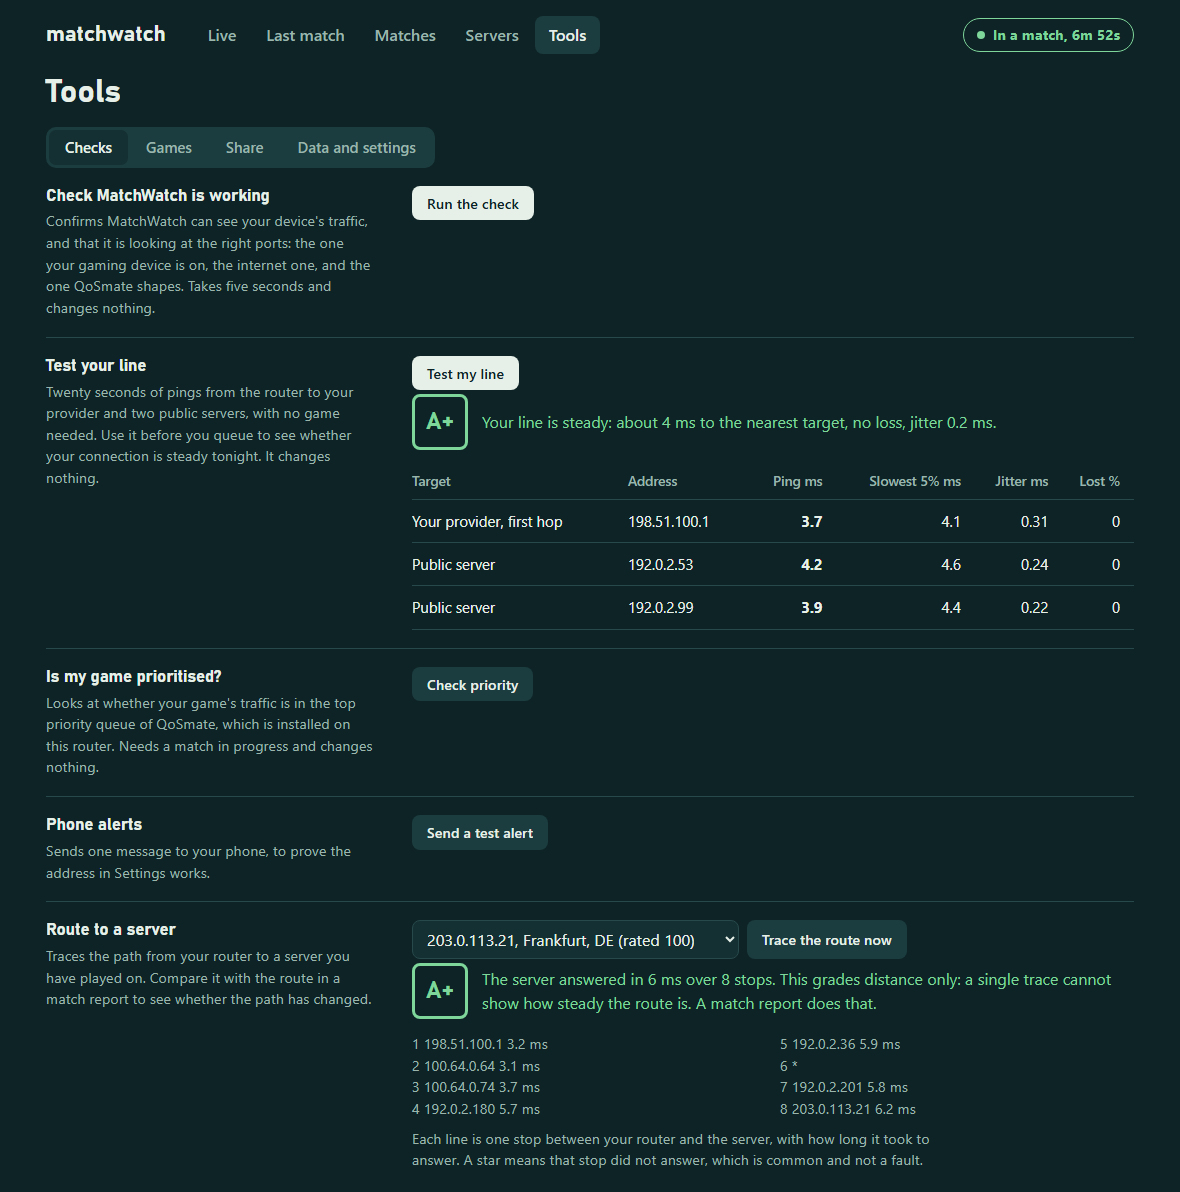
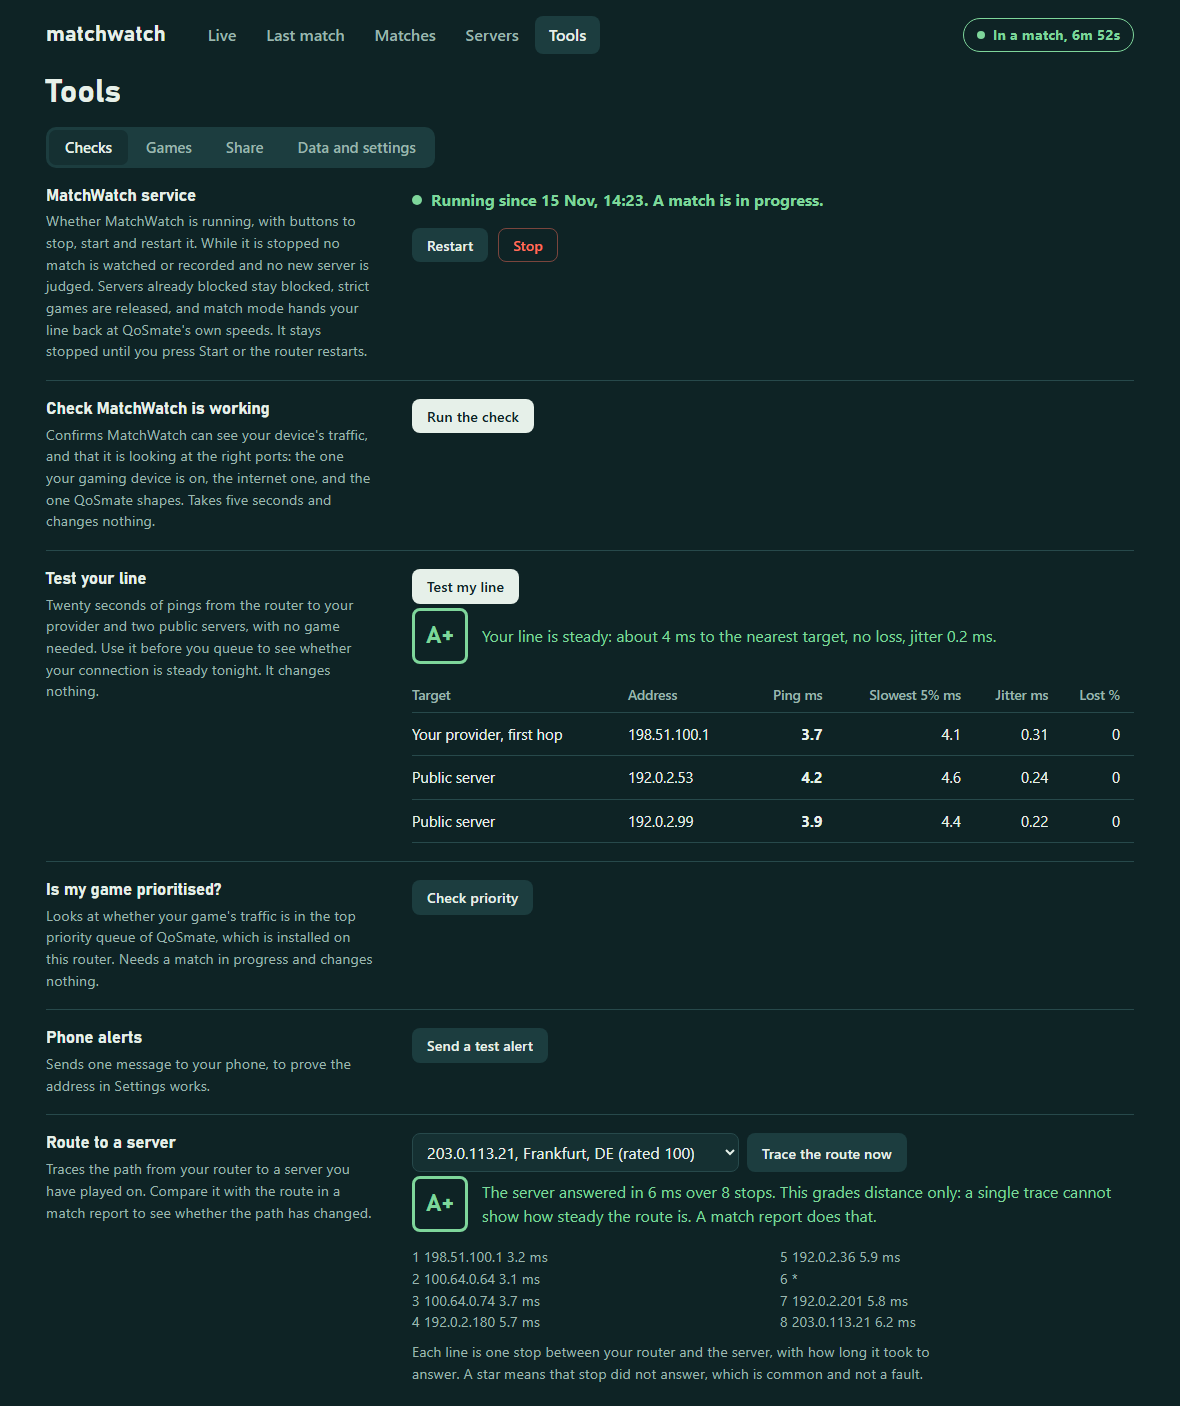
0.36.0: stop, start and restart buttons, with a status that says whether MatchWatch is running
A MatchWatch service row on the Tools page shows whether the service is
running and since when, with Stop, Start and Restart. The service writes
that it is starting or has stopped into the status file the dashboard
already reads every second, so the header and the row change at once.
Stop and restart ask first when a match is in progress. Also from the
command line: matchwatch service [stop|start|restart].

diff --git a/luci-app-matchwatch/htdocs/luci-static/resources/matchwatch/dashboard.js b/luci-app-matchwatch/htdocs/luci-static/resources/matchwatch/dashboard.js
@@ -28,7 +28,7 @@ var page = "", pageArg = "", armed = 0, view = shadow.getElementById("view");
 // another, MatchWatch has been updated under this page: the browser's stored copies of the dashboard
 // files are fetched afresh, which replaces them, and the page reloads itself. Without this an updated
 // router kept showing the old dashboard until the browser happened to let go of it.
-var BUILT = "0.35.2", reloading = false;
+var BUILT = "0.36.0", reloading = false;
 function freshReload() {
 	var urls = {}, go = function () { location.reload(); };
 	try { performance.getEntriesByType("resource").forEach(function (e) { if (/\/matchwatch\/[^?]*\.(js|css)(\?|$)/.test(e.name)) urls[e.name] = 1; }); } catch (e) {}
@@ -1500,6 +1500,7 @@ function pageTools() {
 		view.appendChild(seg);
 	}
 	if (!RO && tab === "checks") {
+		view.appendChild(tool("MatchWatch service", "Whether MatchWatch is running, with buttons to stop, start and restart it. While it is stopped no match is watched or recorded and no new server is judged. Servers already blocked stay blocked, strict games are released, and match mode hands your line back at QoSmate's own speeds. It stays stopped until you press Start or the router restarts.", svcBox()));
 		var docOut = outBox();
 		view.appendChild(tool("Check MatchWatch is working", "Confirms MatchWatch can see your device's traffic, and that it is looking at the right ports: the one your gaming device is on, the internet one, and the one QoSmate shapes. Takes five seconds and changes nothing.",
 			h("div", { cls: "actions" }, act("Run the check", "doctor", null, { solid: true, done: docOut.show })), docOut));
@@ -1684,12 +1685,57 @@ function route(keep) { // keep === true: a redraw with fresh data, so stay where
 	if (page === "live") pageLive(); else if (page === "match") pageMatch(pageArg || "last"); else if (page === "matches") pageMatches(); else if (page === "servers") pageServers(); else pageTools();
 	if (keep !== true) window.scrollTo(0, 0);
 }
+// Is the service running? "stopped" is written by the service as it stops and "starting" as it starts, so
+// neither depends on the clocks; "off" is no sign of life: no file, or one the engine has not touched for 20 s.
+function svcState() {
+	var st = D.st;
+	if (!st) return "off";
+	if (st.stopped) return "stopped";
+	if (st.starting) return "starting";
+	return (!st.ts || Date.now() / 1000 - st.ts > 20) ? "off" : "on";
+}
 function setState() {
-	var e = shadow.getElementById("state"), st = D.st, s = session();
+	var e = shadow.getElementById("state"), st = D.st, s = session(), v = svcState();
 	if (!st) { e.className = ""; e.textContent = "Can't read data from the router"; }
-	else if (!st.ts || Date.now() / 1000 - st.ts > 20) { e.className = ""; e.textContent = "The matchwatch service is not running"; }
+	else if (v === "stopped") { e.className = ""; e.textContent = "MatchWatch is stopped"; }
+	else if (v === "starting") { e.className = ""; e.textContent = "MatchWatch is starting"; }
+	else if (v === "off") { e.className = ""; e.textContent = "MatchWatch is not running"; }
 	else if (s) { e.className = "on"; e.textContent = "In a match, " + mins(s.age); }
 	else { e.className = ""; e.textContent = "Waiting for a match"; }
+	svcPaint();
+}
+// The service row on the Tools page. The Tools page is not redrawn by fresh data, so this draws itself
+// from the status file, which is read every second, and only when what it would show has changed.
+var SVC = { box: null, key: "", wait: "", until: 0, was: 0 };
+function svcBox() { SVC.box = h("div", { cls: "svcbox" }); SVC.key = ""; svcPaint(); return SVC.box; }
+function svcPaint() {
+	var box = SVC.box;
+	if (!box || !box.isConnected && SVC.key) return;
+	var v = svcState(), st = D.st || {}, m = v === "on" && !!session();
+	if (SVC.wait) {
+		var over = SVC.wait === "Stopping" ? v !== "on" && v !== "starting" : v === "on" && (SVC.wait === "Starting" || st.since !== SVC.was);
+		if (over || Date.now() > SVC.until) SVC.wait = "";
+	}
+	var key = [v, m, SVC.wait, st.since || 0, st.stopped || 0].join("|");
+	if (key === SVC.key || box.querySelector("button.arm")) return;
+	SVC.key = key; box.textContent = "";
+	function go(word) { return function (out) { SVC.wait = word; SVC.until = Date.now() + 30000; SVC.was = (D.st || {}).since || 0; toast(out || word + "."); svcPaint(); }; }
+	var cls = "wait", say;
+	if (SVC.wait) say = SVC.wait + "...";
+	else if (v === "on") { cls = "on"; say = "Running" + (st.since ? " since " + when(st.since) : "") + (m ? ". A match is in progress." : ""); }
+	else if (v === "starting") say = "Starting...";
+	else if (v === "stopped") { cls = "off"; say = "Stopped since " + when(st.stopped); }
+	else { cls = "off"; say = "Not running"; }
+	box.appendChild(h("p", { cls: "svc " + cls, role: "status", text: say }));
+	if (SVC.wait || v === "starting") return;
+	var row = h("div", { cls: "actions" });
+	if (v === "on") {
+		row.appendChild(act("Restart", "svcrestart", null, { confirm: m ? "Lose this match's record?" : null, done: go("Restarting") }));
+		row.appendChild(act("Stop", "svcstop", null, { danger: true, confirm: m ? "Lose this match's record?" : "Stop MatchWatch?", done: go("Stopping") }));
+	} else {
+		row.appendChild(act("Start", "svcstart", null, { solid: true, done: go("Starting") }));
+	}
+	box.appendChild(row);
 }
 function tick() { get("status.json", function (st) { D.st = st; setState(); updateLive(); }); get("lobby.json", function (l) { D.lobby = l; }); }
 // half-typed text in a box would be wiped by a redraw

diff --git a/luci-app-matchwatch/htdocs/luci-static/resources/matchwatch/dashboard.css b/luci-app-matchwatch/htdocs/luci-static/resources/matchwatch/dashboard.css
@@ -70,6 +70,12 @@ td .stayform { max-width: 420px; }
 .pingform label { display: flex; flex-direction: column; gap: 4px; font-size: 0.85rem; color: var(--muted); flex: 0 1 130px; }
 .pingform label input { min-width: 0; width: 100%; flex: none; }
 .pingsay { min-height: 1.4em; margin-top: 10px; }
+/* the service row: a light and a word, so the state is not carried by colour alone */
+.svc { display: flex; align-items: center; gap: 9px; margin: 2px 0 12px; font-weight: 700; }
+.svc::before { content: ""; flex: none; width: 10px; height: 10px; border-radius: 50%; background: var(--muted); }
+.svc.on { color: var(--ok); } .svc.on::before { background: var(--ok); }
+.svc.off { color: var(--bad); } .svc.off::before { background: var(--bad); }
+.svc.wait { color: var(--muted); } .svc.wait::before { background: var(--mid); }
 /* the ping range: two sliders laid over one line. Only their handles take the pointer; the line, the lit part and the datacentre marks are drawn underneath, inset by half a handle so a mark sits where the handle's centre would. */
 .pingtrack { position: relative; height: 36px; max-width: 640px; margin: 4px 0 0; }
 .pingtrack .rail, .pingtrack .marks { position: absolute; left: 10px; right: 10px; }

diff --git a/test/mockshots.py b/test/mockshots.py
@@ -100,7 +100,7 @@ def build(site):
     blocks = [{"ip": DCS["mad"][5][0].rsplit(".", 1)[0] + ".0/24", "days": None, "reason": "stay"}, {"ip": "203.0.113.77", "days": 12, "reason": "manual"}]
     for s in servers: s["blocked"] = s["ip"] == "203.0.113.77"; s["in"] = s["cc"] in ("DE", "SE"); s["lat"], s["lon"] = {"DE": (50.11, 8.68), "SE": (59.33, 18.07), "ES": (40.42, -3.70)}[s["cc"]]
     out = {"history": hist, "servers": servers, "datacentres": dlist, "regions": rj, "blocklist": blocks,
-           "info": {"version": "0.35.2", "ping": [5, 45], "device": "192.168.1.50", "stay": "Germany + Sweden", "autoblock": False, "notify": True, "pc_score": True, "geo": True, "block_days": 14, "stays": ["Near Frankfurt 450 km", "Sweden"], "web": False, "qosmate": True, "away": 412, "allowed": ["192.0.2.150"], "lan_if": "br-lan", "wan_if": "pppoe-wan", "qos_if": "eth1", "port_warn": "", "pool": [{"n": 1, "name": "Near Frankfurt 450 km", "lat": 50.11, "lon": 8.68, "km": 450, "cc": ""}, {"n": 2, "name": "Sweden", "lat": None, "lon": None, "km": 0, "cc": "SE"}]}}
+           "info": {"version": "0.36.0", "ping": [5, 45], "device": "192.168.1.50", "stay": "Germany + Sweden", "autoblock": False, "notify": True, "pc_score": True, "geo": True, "block_days": 14, "stays": ["Near Frankfurt 450 km", "Sweden"], "web": False, "qosmate": True, "away": 412, "allowed": ["192.0.2.150"], "lan_if": "br-lan", "wan_if": "pppoe-wan", "qos_if": "eth1", "port_warn": "", "pool": [{"n": 1, "name": "Near Frankfurt 450 km", "lat": 50.11, "lon": 8.68, "km": 450, "cc": ""}, {"n": 2, "name": "Sweden", "lat": None, "lon": None, "km": 0, "cc": "SE"}]}}
     out["favourites"] = [servers[-1]["ip"], servers[-2]["ip"], servers[-4]["ip"]]
     out["mygames"] = [{"name": "Fortnite", "ports": "9000-9100", "kind": "", "hosts": ""}, {"name": "Call of Duty", "ports": "3074,30000-45000", "kind": "", "hosts": "vultr,as20473"}, {"name": "Not a game", "ports": "19306", "kind": "voice", "hosts": ""}]
     out["gameplaces"] = [
@@ -119,7 +119,7 @@ def build(site):
                                  {"p": "192.0.2.0/24", "n": 22, "avg": 93, "city": "Amsterdam", "cc": "NL", "org": "Example Hosting Amsterdam", "blocked": False}]}
     d, u = timeline(120, "clean"); d[40], d[41], d[95] = 265.3, 98, 150; u[70] = 166
     p = [round(random.uniform(5.8, 6.4), 1) for _ in range(120)]; p[40], p[41] = 14.5, 9.0
-    out["status"] = {"ts": NOW + 3600, "candidates": 0, "flows": 3, "sessions": [{"ip": "203.0.113.21", "port": 30120, "device": "192.168.1.50", "age": 412, "start": NOW - 412, "game": "Call of Duty", "loc": "Frankfurt, DE", "org": "Example Hosting Frankfurt",
+    out["status"] = {"ts": NOW + 3600, "since": NOW - 6 * 3600 - 1260, "candidates": 0, "flows": 3, "sessions": [{"ip": "203.0.113.21", "port": 30120, "device": "192.168.1.50", "age": 412, "start": NOW - 412, "game": "Call of Duty", "loc": "Frankfurt, DE", "org": "Example Hosting Frankfurt",
                      "tick": 20.1, "jit": 0.41, "late": 0.02, "lost": 0, "uprate": 95.2, "upjit": 0.3, "s_lost": 0.04, "s_frz": 1, "s_hitch": 1, "rep": 97, "repn": 3, "ping": 6.1, "tl_d": d, "tl_u": u, "tl_p": p,
                      "marks": [{"t": NOW + 3600 - 76, "k": "server+ping", "x": "server updates stalled: one arrived 217 ms late; ping jumped to 14 ms (normally 6)"}]}]}
     # results of the two slow tools, as the router would leave them (job number 1)
@@ -187,7 +187,7 @@ ratings: 3 server rating(s) from someone else. They are shown to you and mention
 		if (p.action === "shareimport") out = `Added 2 game label(s). Ones for ports you had already named were left out.
 Took in 3 server rating(s). They are listed on the Tools page.`;
 		if (p.action === "linetest" || p.action === "trace") out = "1";
-		if (p.action === "updatecheck") out = "Version 0.24.0 is available. You have 0.35.2.";
+		if (p.action === "updatecheck") out = "Version 0.24.0 is available. You have 0.36.0.";
 		return Promise.resolve({ ok: true, out: out });
 	} });
 // for the Tools screenshots: press what a visitor would, so each picture shows a result

diff --git a/CLAUDE.md b/CLAUDE.md
@@ -1,6 +1,6 @@
 # matchwatch: notes for whoever works on this next
 
-matchwatch runs on an OpenWrt router and judges each online match: the game server, the route to it, the player's own line and their PC. It works from packet timing only and never alters game traffic. Version 0.35.2.
+matchwatch runs on an OpenWrt router and judges each online match: the game server, the route to it, the player's own line and their PC. It works from packet timing only and never alters game traffic. Version 0.36.0.
 
 ## Layout
 
@@ -58,6 +58,8 @@ Strict games (0.25.0, called hold in the code because `STAY_STRICT` was taken): 
 Match mode (0.30.0, off by default, `match_mode`): QoSmate's cake limit on during matches and lifted between them. `mm_set tight` runs `tc qdisc change dev <wan> root cake bandwidth <UPRATE>kbit` (and `ifb-<wan>` with `DOWNRATE`), `mm_set loose` runs `... cake unlimited`; note it is `cake unlimited`, not `bandwidth unlimited`, which tc rejects. A change keeps every other cake option and needs no QoSmate restart; QoSmate's uci settings are read and never written. Tight is asked for by `cmd_lobby` and `_probe_start`; `cmd_after` starts `mm_later`, which switches after `MM_HOLD` if no match or candidate is in `status.json` and no newer stamp has been written (`mm.stamp`). It must fail tight: `run` starts tight and lifts after a minute, the init script's `stop_service` calls `_mmstop`, and switching it off sets tight. `matchmode.json` carries the state for the Live page and the Tools row. Since 0.31.0 the owner chooses the speeds ("don't always auto decide for people"): `mm_on_down`, `mm_on_up` (while playing; empty follows QoSmate's own rate), `mm_off_down`, `mm_off_up` (between matches; empty is no limit) and `mm_hold` (seconds after a match before switching; 300 by default since 0.34.0: the owner first found a fixed five minutes too long, then, with a choice on offer, found a 30-second default too quick; 0 is at once, though never under three seconds so the engine has written that the match is over). `matchwatch matchmode speeds` and the action `matchmodeset` (`a/b/c/d[/hold]` in kbit) save them and put them to work at once. `mm_set` has three targets: `tight`, `loose` and `own`, the last being QoSmate's own rates, used on stop and off. The Tools row has a panel (`mmSpeeds`): a number box and a slider per speed, the slider in percent of QoSmate's own rate. Never trust `mm.state` alone (0.32.2): the owner ran a speed test between matches and got the limited speed, because QoSmate had been restarted overnight, which puts its own rates back, while `mm.state` still said `loose` and `mm_set loose` returned early. `mm_same` now reads the rate cake really has (`mm_actual`, from `tc qdisc show`), `mm_set` only skips when the queues agree, and the service runs `matchwatch _mmcheck` once a minute to set the speeds again when something outside has moved them. QoSmate's own speeds come from the queues (0.32.3, `mm_own`): a friend of the owner saw no speeds at all. QoSmate fills missing options from its defaults file and caps DOWNRATE at BWMAXRATIO times UPRATE, so `qosmate.settings.UPRATE/DOWNRATE` can be empty or differ from what is in force; a rate of 0 there means that direction is not shaped (no cake at all). `mm_own` reads `tc` whenever the queues are as QoSmate left them (no `mm.state`), remembers the answer in `/etc/matchwatch/mm.own`, learns again when `mm_check` sees an outside change, and falls back to uci last. `run` restores QoSmate's speeds first if `mm.state` survived an unclean stop. `mm_why` names the reason match mode cannot work (`noqos`, `disabled`, `notcake`, `autorate`, `noqueue`); QoSmate's autorate service rewrites the same bandwidth several times a second, so match mode refuses while it is on. QoSmate's port, not OpenWrt's (0.32.4, `qos_dev`, `QWAN`): the same friend then got "QoSmate has no speed limit on the internet port" with cake running. MatchWatch was looking at `WAN_IF` (what `network_find_wan` gives, `pppoe-wan` on a PPPoE line) while QoSmate shapes `qosmate.settings.WAN`, which can be the physical port underneath or the reverse. Everything that reads or changes QoSmate's queues (match mode, the per-match queue record, the priority check's counters) now uses `QWAN`: QoSmate's setting when that port exists, else `WAN_IF`; the downloads queue is `ifb-$QWAN`. Packet capture for the priority check stays on `WAN_IF`. Cake modes only. The owner wants QoSmate credited: say that QoSmate does the prioritising wherever this is described. Seen on the owner's router: a full on, lifted, limits back, off cycle on the live queues, every cake option identical afterwards and QoSmate's settings untouched. Not yet seen: a real match switching it.
 
 Ports (0.33.0): `ports_check` tests the three ports and prints `ok`, `note` or `WARN` lines, each saying where to correct it: `LAN_IF` (must exist; with a device chosen, must be the port `ip route get <device>` names), `WAN_IF` (must exist and be the default route's port), and `QWAN` (QoSmate's setting must name a real port with a cake, hfsc or htb queue on it). `cmd_doctor` prints them, `info.json` carries `lan_if`, `wan_if`, `qos_if` and `port_warn` (the warnings joined), the Tools page shows `port_warn` as a banner on every tab and lists the ports under Settings in use. The owner asked whether to add a port picker: no for QoSmate's port, because a second setting that can disagree with QoSmate's is what caused the bug; the LAN and WAN fields under Settings, Advanced, already exist for the other two. Tested in a sandbox and on the owner's router; the warnings themselves only against invented cases.
+
+Service buttons (0.36.0): the owner asked for stop, start and restart with a running status. `matchwatch service [stop|start|restart]` (actions `svcstop`, `svcstart`, `svcrestart`, all under `write`) runs the init script a second later so the rpcd call has answered first. The status needs no new file and no extra fetch: `status.json`, already read every second, carries `since` (the engine's first tick), `starting` (written by `run` before the engine is up) and `stopped` (written by `stop_children` after it has waited for the engine to exit, so the engine cannot write over it). `svcState()` gives `on`, `starting`, `stopped`, or `off` (no file, or `ts` over 20 s old, which is what a crash looks like); the header pill and the service row on Tools, Checks (`svcBox`, `svcPaint`) both use it. The Tools page is never redrawn by fresh data, so the row repaints itself from `setState` and only when its key changes, never while a button is armed. Stop and restart ask first when a match is on, because its record is lost. What stop leaves alone is deliberate and said in the row: the nftables table stays, so `blocked` and `away` still apply; only `hold_ports` is released and match mode handed back (the init script's `stop_service`). Tested in a sandbox and against the mock page; on the owner's router see the notes below.
 
 The internet port after a restart (0.35.2): the owner's Tools page said "No internet port was found" with the line working. The service had started at boot twenty seconds before the WAN had an address, and OpenWrt's `network.sh` keeps its `ubus` answer in an exported variable (`__NETWORK_CACHE`), so the service and every `matchwatch` it ran afterwards went on reading the boot-time answer; a fresh shell found the port at once, which is why `matchwatch doctor` over SSH looked fine. It also left the engine without `WANDEV`, so matches recorded after that restart have no line-load figures. `find_ifaces` now calls `network_flush_cache` before every look, asks `ip -4 route show default` when OpenWrt names nothing, and writes the port to `$RUN/wan.if`; `run` keeps looking every ten seconds when it starts without one and re-exports once found; the engine's `wan_find` reads `wan.if` every 20 ticks while it has no port. A port set by hand under Settings, Advanced is never looked up. The fault was reproduced on the owner's router by handing the old script an empty `__NETWORK_CACHE`, and each piece tested in a sandbox with a stand-in `ubus` and `ip` that have no WAN at first. Not yet seen: the waiting loop in `run` across a real restart.
 

diff --git a/README.md b/README.md
@@ -1,6 +1,6 @@
 # MatchWatch
 
-**Judges every online match from your OpenWrt router — v0.35.2 (pre-release)**
+**Judges every online match from your OpenWrt router — v0.36.0 (pre-release)**
 
 > **OpenWrt only.** MatchWatch runs on a router with [OpenWrt](https://openwrt.org/) firmware and appears inside LuCI, OpenWrt's web interface. It does not run on Windows, macOS, a games console, or a router with its maker's stock firmware. Nothing is installed on your PC or console.
 
@@ -539,6 +539,7 @@ The Tools page has four tabs. Each tool says what it does beside its button.
 
 **Checks**
 
+- **MatchWatch service.** Says whether MatchWatch is running and since when, with **Stop**, **Start** and **Restart**. The same is shown at the top right of every page. While it is stopped no match is watched or recorded and no new server is judged; servers already blocked stay blocked, strict games are released, and match mode hands your line back at QoSmate's own speeds. Stopping lasts until you press Start or the router restarts. Do either between matches: a match in progress is not recorded, and the buttons ask first when one is.
 - **Check MatchWatch is working.** Confirms the programs it needs are present, that it can see your device's traffic, and that it is looking at the right ports. Takes five seconds and changes nothing.
 
   MatchWatch relies on three ports, and a wrong one never shows as an error: a feature just quietly does nothing. The check tests each and says where to correct it, a warning appears at the top of the Tools page if one is wrong, and all three are listed under Settings in use.
@@ -648,6 +649,7 @@ Everything is also available over SSH:
 | `matchwatch matchmode speeds <down> <up> <down> <up> [seconds]` | Choose those speeds, in kbit, and how soon after a match they switch |
 | `matchwatch device [<ip>\|all]` | List the devices on your network and choose which to watch |
 | `matchwatch doctor` | Checks that capture works. Changes nothing |
+| `matchwatch service` / `service stop` / `service start` / `service restart` | Says whether MatchWatch is running, or stops, starts or restarts it |
 | `matchwatch update` / `update now` | Says whether GitHub has a newer version; with `now`, downloads and installs it |
 | `matchwatch forget match <start>` / `server <ip>` / `dc <n>` | Removes one match, server or datacentre. Favourites are kept |
 | `matchwatch clear-history` | Forgets every recorded match. Blocks and settings are kept |
